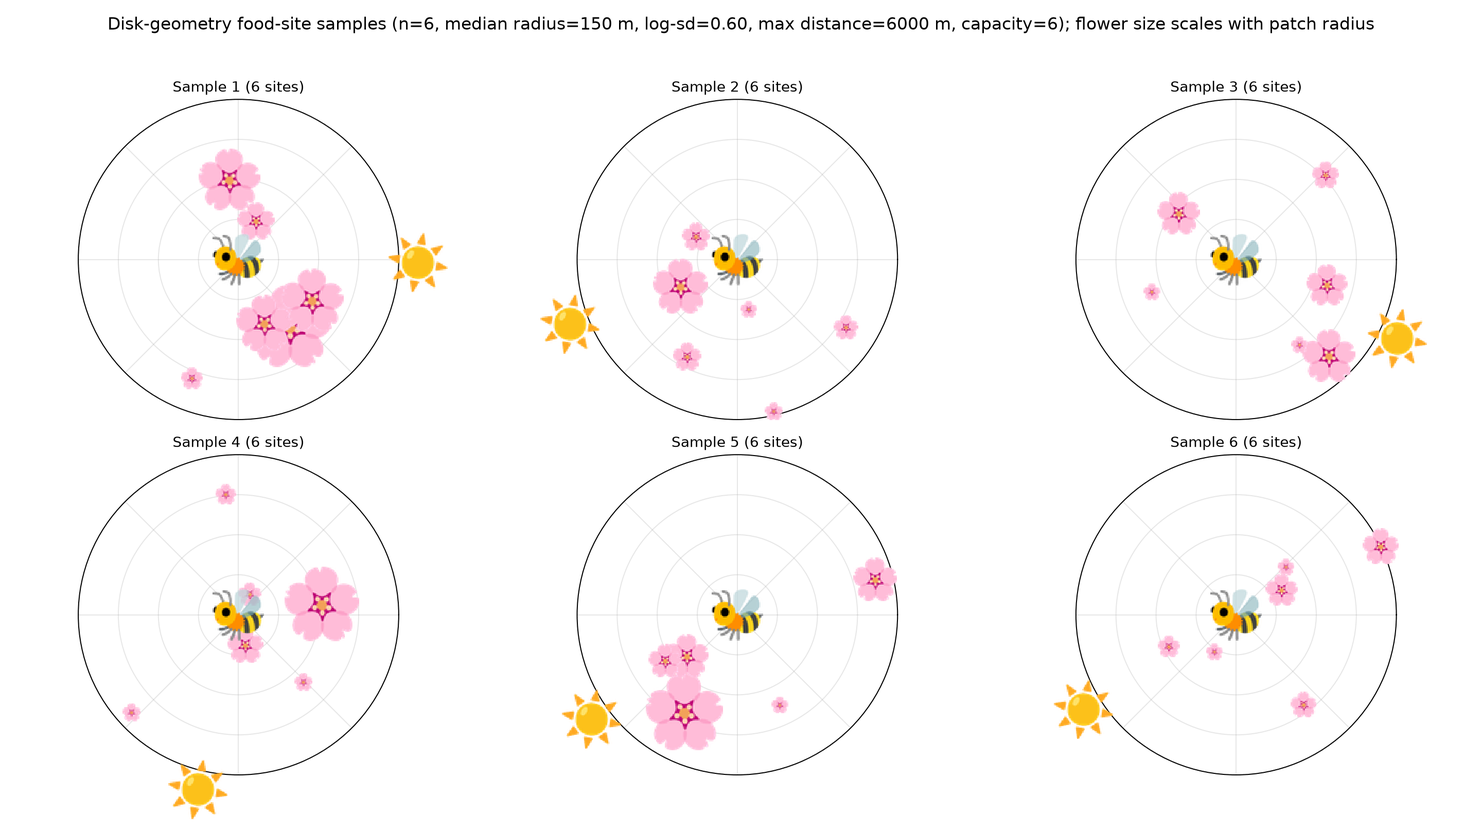
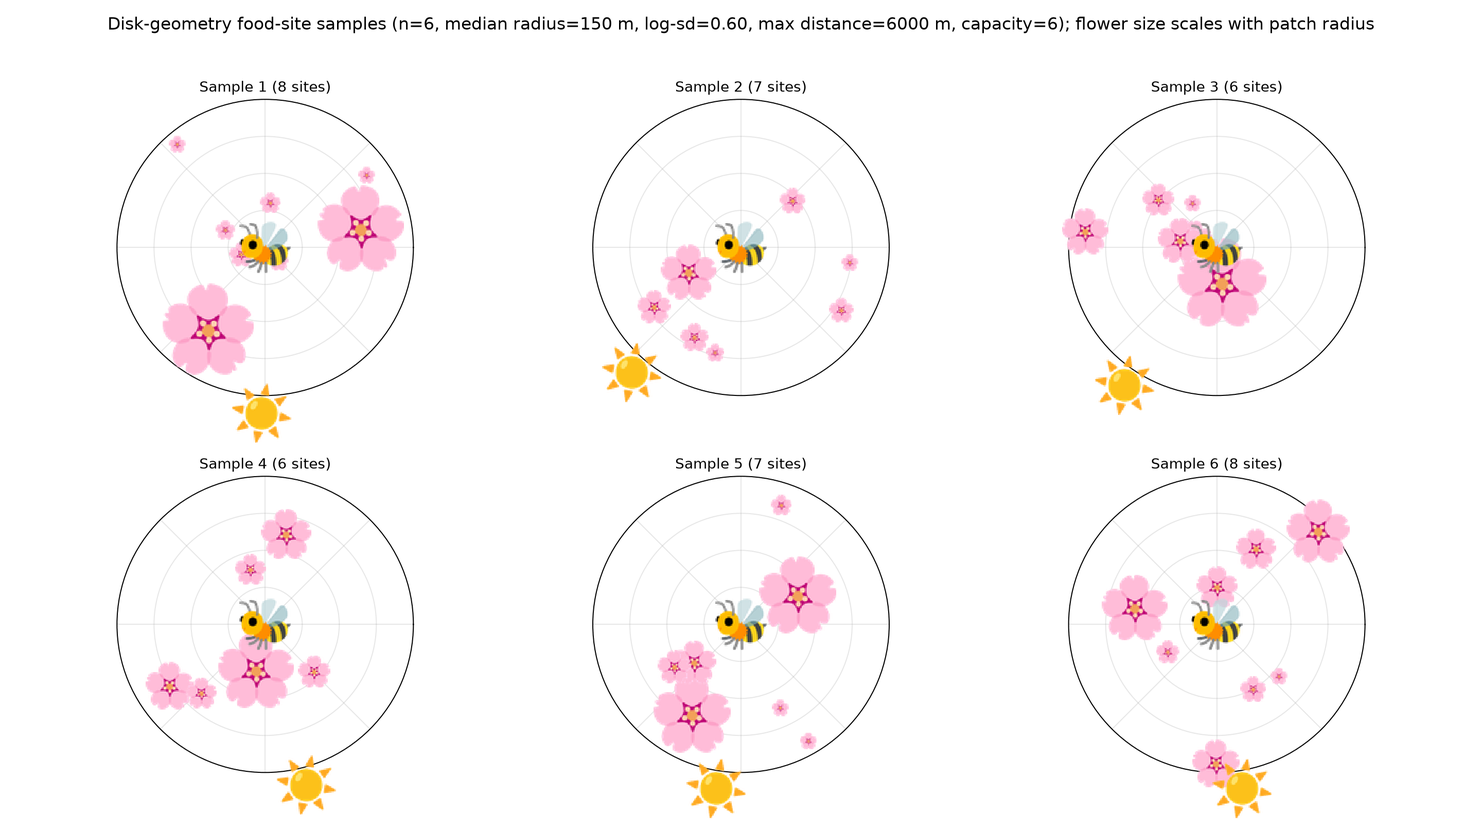
Update paper to disk-geometry model; fix report seed count
Bring the publication paper in line with the current disk-geometry
model (the Method and Experimental setup sections still described the
superseded angular model):

- paper.tex Method: disk food geometry (Poisson patch count, lognormal
  radius independent of distance, disk-intersection capture with
  distance-shrinking angular tolerance, area-scaled capacity, Gamma
  per-foray distance), the new dance-propensity recruitment trait and
  its capacity-conditional decision, foray-distance trait, meters, and
  the disk environment figure with a rewritten caption. The shared comb
  geometry / two-codes / decode / coupling block is unchanged.
- experimental_setup.tex: disk fixed/varied parameter tables, the
  food-distribution grid for the horizontal stage, 1024-trial Optuna
  search over eight disk parameters, disk interaction grid, corrected
  seed blocks; drop the v2/v3 labels and the generation-budget probe.
- Regenerate disk_food_samples.png (was stale: fixed count instead of
  the current Poisson-varying patch counts).
- report.md: fix confirmation seed count (100 -> 40) to match the
  tracked result files; rebuild report.html.
- Add report/.markdownlint.json relaxing MD025/MD033/MD060, which
  conflict with the report's Pandoc frontmatter title, figure HTML, and
  compact tables.

diff --git a/report/report.html b/report/report.html
@@ -290,7 +290,7 @@ style="text-align: left;"><code>results/food_transition_disk_optuna_trials.csv</
 <td style="text-align: left;">Candidate confirmation</td>
 <td
 style="text-align: left;"><code>results/food_transition_disk_confirmation_*</code></td>
-<td style="text-align: left;">100 seeds</td>
+<td style="text-align: left;">40 seeds</td>
 </tr>
 <tr class="even">
 <td style="text-align: left;">Transition (flatten)</td>
@@ -326,7 +326,7 @@ style="text-align: left;"><code>results/food_transition_disk_unproject_optuna_tr
 <td style="text-align: left;">Candidate confirmation</td>
 <td
 style="text-align: left;"><code>results/food_transition_disk_unproject_confirmation_*</code></td>
-<td style="text-align: left;">100 seeds</td>
+<td style="text-align: left;">40 seeds</td>
 </tr>
 <tr class="odd">
 <td style="text-align: left;">Transition (unproject)</td>

diff --git a/report/experimental_setup.tex b/report/experimental_setup.tex
@@ -24,18 +24,24 @@ evolving for $120$ non-overlapping generations; each colony is evaluated over
 $50$ independent foraging episodes of $12$ foraging attempts. Workers express
 colony traits with variation scale $\eta = 0.08$ (\Cref{sec:traits}); dances are
 emitted with maximum concentration $\kappa_{\max} = 14$ and production noise
-$0.18$, and read with interpretation noise $0.12$ (\Cref{sec:signals}). The
-maximum search distance is $D = 8$ and food sites lie at distances in
-$[1, d_{\max}]$. Foraging carries a per-distance travel cost, a dance cost
+$0.18$, and read with interpretation noise $0.12$ (\Cref{sec:signals}). All
+lengths are in meters: the maximum search distance is $D = 6000$ m and food
+patches lie at distances in $[750, d_{\max}]$ m. Food patches are physical disks
+whose radius is drawn from a lognormal of median $150$ m and log-scale spread
+$0.6$; capacity scales with patch area from a base of $6$ loads at the median
+radius, and the number of patches per episode is Poisson (\Cref{sec:environment}).
+Each foray draws its outbound distance from a Gamma of shape $2$ with the colony's
+evolved mean. Foraging carries a per-distance travel cost, a dance cost
 $c_{\mathrm{base}} + c_{\mathrm{cue}}\,b_i$ with $c_{\mathrm{base}} = 0$ and
 $c_{\mathrm{cue}} = 0.02$, and an attention cost $c_{\mathrm{att}} = 0.01$
 (\Cref{sec:foraging}). The sun is drawn from an arc of width $\pi$ centered on
 $\pi/2$, and the comb orientation is treated as axially symmetric (period $\pi$).
 Colonies start with little communicative ability: the initial directional bias is
 drawn from $\mathcal{U}(0,0.15)$, receiver attention from $\mathcal{U}(0,0.25)$,
-the search limit from $\mathcal{U}(0.15D, 0.45D)$, and both transposition traits
-start at $0$, so early foragers signal weakly, rarely attend to one another, and
-use only direct pointing.
+the foray distance from $\mathcal{U}(0.15D, 0.45D)$, the dance propensity from
+$\mathcal{U}(0.8,1.0)$, and both transposition traits start at $0$, so early
+foragers signal weakly, rarely attend to one another, and use only direct
+pointing.
 
 \begin{table}
   \centering
@@ -52,8 +58,11 @@ use only direct pointing.
     $\kappa_{\max}$ & $14$ & maximum dance concentration \\
     dance noise & $0.18$ & production noise (wrapped Gaussian) \\
     interpretation noise & $0.12$ & receiver decoding noise \\
-    $D$ & $8$ & maximum search distance \\
-    $d_{\min}$ & $1$ & minimum food distance \\
+    $D$ & $6000$ m & maximum search distance \\
+    $d_{\min}$ & $750$ m & minimum food distance \\
+    $\rho_r$ & $150$ m & median patch radius (lognormal) \\
+    $\sigma_r$ & $0.6$ & patch-radius log-scale spread \\
+    foray shape & $2$ & Gamma shape of per-foray distance \\
     $c_{\mathrm{base}},\,c_{\mathrm{cue}}$ & $0,\ 0.02$ & dance cost terms \\
     $c_{\mathrm{att}}$ & $0.01$ & attention cost \\
     $v$ & $1$ & food value \\
@@ -61,15 +70,15 @@ use only direct pointing.
     \bottomrule
   \end{tabular}
   \caption{Parameters held fixed across all experiments. Ecological parameters
-    (food-site count, angular width, capacity, maximum distance, travel cost) and
+    (food-site count, patch radius, capacity, maximum distance, travel cost) and
     evolutionary parameters ($B$, $\sigma_m$, $\rho$) are varied as described in
     the text.}
   \label{tab:fixed-params}
 \end{table}
 
 The parameters that are deliberately varied are summarized in
-\Cref{tab:varied-params}: five ecological parameters (food-site count, angular
-width, capacity, maximum food distance, and travel cost) and three evolutionary
+\Cref{tab:varied-params}: five ecological parameters (food-site count, patch
+radius, capacity, maximum food distance, and travel cost) and three evolutionary
 parameters ($B$, $\sigma_m$, $\rho$). The ranges given there are the union across
 sub-experiments; the specific sweeps and grids used in each are described in the
 sections below.
@@ -81,11 +90,11 @@ sections below.
     Symbol / name & Range explored & Meaning \\
     \midrule
     \multicolumn{3}{l}{\emph{Ecological}} \\
-    food-site count       & $1$--$10$       & number of food sites per episode \\
-    angular width         & $0.08$--$0.50$  & angular width of each food site \\
-    capacity              & $4$--$16$       & foragers a site supplies before exhaustion \\
-    $d_{\max}$            & $4.5$--$9.0$    & maximum food-site distance \\
-    $c_{\mathrm{travel}}$ & $0.01$--$0.06$  & travel cost per unit distance \\
+    food-site count       & $1$--$8$          & Poisson mean number of patches per episode \\
+    patch radius          & $60$--$360$ m     & median disk radius (lognormal) \\
+    capacity              & $2$--$12$         & base loads a patch supplies at the median radius \\
+    $d_{\max}$            & $3000$--$7500$ m  & maximum patch distance \\
+    $c_{\mathrm{travel}}$ & $10^{-5}$--$6\times10^{-5}$ & travel cost per meter \\
     \midrule
     \multicolumn{3}{l}{\emph{Evolutionary}} \\
     $B$        & $0.10$--$0.60$ & vertical-comb benefit magnitude \\
@@ -96,12 +105,14 @@ sections below.
   \caption{Parameters varied across experiments, with the range each is explored
     over. Ranges give the union across sub-experiments: the ecological parameters
     and $B,\sigma_m,\rho$ are sampled continuously in the Optuna search over the
-    intervals shown; the horizontal-comb experiments sweep food-site count over
-    $\{1,2,3,4,6,8\}$ and angular width over $\{0.08,0.15,0.20,0.30,0.50\}$; and
-    the evolutionary-interaction grid uses the discrete values
-    $B \in \{0.10, 0.25, 0.44\}$, $\sigma_m \in \{0.045, 0.075, 0.090, 0.135\}$,
-    and $\rho \in \{0.0, 0.3, 0.6, 0.9\}$. Outside the search, capacity is $6$,
-    $d_{\max}$ equals $D = 8$, and the horizontal runs use $\sigma_m = 0.07$.}
+    intervals shown; the horizontal-comb experiment sweeps a grid of food-site
+    count $\{1,2,3,4,6,8,12,16,24\}$ against median patch radius
+    $\{15, 37.5, 75, 150, 300, 600\}$ m; and the evolutionary-interaction grid
+    uses the discrete values $B \in \{0.30, 0.44, 0.56\}$,
+    $\sigma_m \in \{0.05, 0.07, 0.09, 0.11\}$, and
+    $\rho \in \{0.0, 0.3, 0.6, 0.9\}$. Outside the search, capacity is $6$ at the
+    median radius, $d_{\max} = 6000$ m, and the horizontal runs use
+    $\sigma_m = 0.07$.}
   \label{tab:varied-params}
 \end{table}
 
@@ -111,10 +122,9 @@ The direct code can be decoded in two ways on a tilted comb
 (\Cref{sec:vertical}), and we run the whole transition pipeline under each. The
 \emph{flatten} decode applies $M^\top$, introducing a tilt-dependent directional
 bias; the \emph{unproject} decode applies $M^{-1}$, recovering the heading without
-bias. We refer to the flatten pipeline as v2 and the unproject pipeline as v3.
-The two pipelines are identical in every other respect, so comparing them isolates
-the effect of the geometric decode assumption on whether and where the transition
-occurs.
+bias. The two pipelines are identical in every other respect, so comparing them
+isolates the effect of the geometric decode assumption on whether and where the
+transition occurs.
 
 \subsection{Emergence of direct pointing (horizontal comb)}
 \label{sec:setup-horizontal}
@@ -123,11 +133,12 @@ tilt is fixed at $0$ and not allowed to evolve, so the gravity reference has zer
 strength and the transposition traits are inert, leaving only the direct-pointing
 code in play. Colonies evolve for $60$ generations under mutation rate
 $\sigma_m = 0.07$, and we vary only the food distribution across $50$ replicate
-seeds. Conditions comprise three anchors --- a \emph{hard} ecology ($1$ site,
-angular width $0.08$), a \emph{baseline} ($2$ sites, width $0.20$), and an
-\emph{easy} ecology ($8$ sites, width $0.50$) --- together with two orthogonal
-one-dimensional sweeps that share the baseline point: a sweep over food-site
-count at fixed width, and a sweep over angular width at fixed site count.
+seeds ($400$--$449$). The conditions form a full grid crossing the Poisson mean
+patch count $\{1,2,3,4,6,8,12,16,24\}$ against the median patch radius
+$\{15, 37.5, 75, 150, 300, 600\}$ m, so that the ecology ranges from single small
+patches (essentially undiscoverable) to many large ones (easily found by random
+search). All other ecological parameters are held at their fixed values
+(\Cref{tab:fixed-params}).
 
 The primary outcome is the \emph{recruitment advantage} (\Cref{sec:foraging}):
 among attempts where a dance was available, the success rate of workers that
@@ -150,15 +161,18 @@ The transition is governed by the interaction of the ecology with three
 evolutionary parameters: the benefit magnitude $B$, the mutation rate
 $\sigma_m$, and the sender--receiver coupling $\rho$. Because the joint search
 space is large, we locate viable regions by optimization and then probe their
-robustness, in the sequence of sub-experiments below. Each stage draws from a
-distinct block of seeds so that tuning and evaluation never overlap.
+robustness, in the sequence of sub-experiments below. Tuning and evaluation draw
+from disjoint seed blocks: the search uses seeds $100$--$109$ and confirmation
+$110$--$149$, while all held-out evaluation uses seeds $200$--$299$.
 
 \paragraph{Parameter search.}
-We search nine parameters --- food-site count, angular width, capacity, maximum
+We search eight parameters --- food-site count, patch radius, capacity, maximum
 distance, and travel cost, together with $B$, $\sigma_m$, and $\rho$ (food value
 fixed at $v = 1$) --- with the Tree-structured Parzen Estimator sampler of Optuna,
-running $512$ trials with $64$ initial random trials. Each trial evaluates a
-panel of $10$ seeds ($100$--$109$) and is scored by
+running $1024$ trials in total across sixteen parallel workers evaluated against a
+single shared study, each worker seeded independently and drawing $64$ startup
+random trials. Each trial evaluates a panel of $10$ seeds ($100$--$109$) and is
+scored by
 \begin{equation}
   \text{stable seed count} + \overline{\text{progress}} - \text{collapse count},
 \end{equation}
@@ -178,22 +192,16 @@ the two transposition traits.
 
 \paragraph{One-parameter sensitivity.}
 Around the strongest validated candidate we perturb each parameter in turn,
-holding the others at their validated values, over $100$ seeds ($300$--$399$),
-to identify which parameters the transition is most sensitive to.
+holding the others at their validated values, over the same $100$ held-out seeds
+($200$--$299$), to identify which parameters the transition is most sensitive to.
 
 \paragraph{Evolutionary-parameter interaction.}
 To ask whether mutation parameters can compensate for a weaker architectural
 benefit, we hold the validated ecology fixed and run a full-factorial grid over
-the three evolutionary parameters, $B \in \{0.10, 0.25, 0.44\}$,
-$\sigma_m \in \{0.045, 0.075, 0.090, 0.135\}$, and
-$\rho \in \{0.0, 0.3, 0.6, 0.9\}$, evaluating each of the $48$ cells over $100$
-seeds.
-
-\paragraph{Generation budget in the low-benefit regime.}
-Finally, to test whether a low benefit merely slows the transition rather than
-preventing it, we take the weakest regime ($B = 0.10$, low $\rho$, low
-$\sigma_m$) and extend the evolutionary horizon to $240$, $480$, and $960$
-generations over $100$ seeds, at two mutation scales.
+the three evolutionary parameters, re-centred on the disk stable region,
+$B \in \{0.30, 0.44, 0.56\}$, $\sigma_m \in \{0.05, 0.07, 0.09, 0.11\}$, and
+$\rho \in \{0.0, 0.3, 0.6, 0.9\}$, evaluating each of the $48$ cells over the same
+$100$ held-out seeds ($200$--$299$).
 
 \paragraph{Outcome measures.}
 Across the transition experiments we summarize runs by the same thresholds used in

diff --git a/report/paper.tex b/report/paper.tex
@@ -206,26 +206,27 @@ introduce here only the traits needed for the basic horizontal-comb model
 (\Cref{sec:horizontal}); the additional traits and geometry required for tilted
 combs are deferred to \Cref{sec:vertical}.
 
-Three traits govern the behavior of a colony's workers. The \emph{directional
+Four traits govern the behavior of a colony's workers. The \emph{directional
 bias} $b$ controls how precisely a dance points; the \emph{receiver attention}
-$a$ is the propensity to attend to a dance rather than to search at random; and
-the \emph{search limit} $\ell$ is the maximum distance a worker is willing to
-travel. The first two are bounded to $[0,1]$ and the search limit to $[0,D]$,
+$a$ is the propensity to attend to a dance rather than to search at random; the
+\emph{dance propensity} $p$ controls how readily a successful scout recruits
+others to the patch it just found (\Cref{sec:foraging}); and the \emph{foray
+distance} $\ell$ sets the mean outbound distance a worker travels on a foraging
+trip. The first three are bounded to $[0,1]$ and the foray distance to $[0,D]$,
 where $D$ is the maximum search distance, a fixed model parameter (set to
-$D = 8$ in all our experiments) expressed in arbitrary distance units.
+$D = 6000$ in all our experiments) expressed in meters.
 
 Workers express the colony traits with non-heritable individual variation. A
-worker $i$ realizes each trait $x \in \{b, a, \ell\}$ as
+worker $i$ realizes each trait $x \in \{b, a, p\}$ as
 \begin{equation}
   x_i = \mathrm{clip}\bigl(x + \varepsilon_i\bigr), \qquad
   \varepsilon_i \sim \mathcal{N}(0, \eta^2),
 \end{equation}
 where $\eta$ is a fixed worker-variation scale and $\mathrm{clip}$ returns the
-value to its admissible range. For the search limit, whose range is $[0,D]$
-rather than $[0,1]$, the scale is multiplied by $D$, so that $\varepsilon_i \sim
-\mathcal{N}(0, (\eta D)^2)$. A colony
-thus behaves as a noisy ensemble of workers sharing the same underlying
-genotype.
+value to its admissible range. The foray distance $\ell$ carries no separate
+worker jitter: within-colony variation in how far workers travel arises instead
+from the per-foray draw described in \Cref{sec:environment}. A colony thus
+behaves as a noisy ensemble of workers sharing the same underlying genotype.
 
 \subsection{Producing and interpreting signals}
 \label{sec:signals}
@@ -254,14 +255,29 @@ recovered direction is close enough to a food site to lead the follower to it.
 \label{sec:environment}
 A colony is evaluated over a fixed number of independent foraging episodes, and
 its fitness is averaged over them (\Cref{sec:foraging}). Each episode draws a
-fresh environment (\Cref{fig:environment}). A fixed number of food sites are
-placed at azimuths drawn
-uniformly around the colony and at distances drawn uniformly from
-$[d_{\min}, d_{\max}] \subseteq [0, D]$, where $D$ is the maximum search distance
-of \Cref{sec:traits}; every site has the same angular width, value $v$, and
-finite capacity, the last limiting how many foragers it can supply before being
-exhausted. These are held fixed across our experiments, with angular width
-$0.2$, value $v = 1$, and capacity $6$.
+fresh environment (\Cref{fig:environment}), with all lengths measured in meters.
+The number of food sites is drawn from a Poisson distribution with mean $n$, so
+episodes vary in how much food they offer and some contain none. Each site is
+placed at an azimuth drawn uniformly around the colony and at a distance drawn
+uniformly from $[d_{\min}, d_{\max}]$, and is a physical circular patch (a disk)
+whose radius is drawn independently from a lognormal distribution with median
+$\rho_r$ and log-scale spread $\sigma_r$. A forager captures the patch when its
+straight outbound path crosses the disk, so a patch's effective angular tolerance
+is approximately $\arcsin(\mathrm{radius}/\mathrm{distance})$ and shrinks with
+distance: a fixed patch subtends a smaller angle when farther from the nest. Each
+patch has value $v$ per visit and a finite capacity limiting how many foragers it
+can supply before being exhausted; capacity scales with the patch's area, growing
+with the square of its radius relative to a reference radius $\rho_r$, so that
+larger patches hold proportionally more forage while the per-visit value stays
+fixed. In our experiments $v = 1$, the median radius is $\rho_r = 150$ with
+log-scale spread $\sigma_r = 0.6$, a patch at the median radius has capacity $6$,
+and sites lie between $d_{\min} = 750$ and $d_{\max} = 6000$.
+
+The foray distance trait $\ell$ (\Cref{sec:traits}) sets how far a worker travels,
+but each individual foray draws its own outbound length from a Gamma distribution
+with mean $\ell$ and a fixed shape, capped at the maximum search distance $D$. The
+per-foray draw is the source of within-colony variation in travel distance and
+gives forays a realistic spread of short and long trips around the colony mean.
 
 Each episode also fixes the position of the sun, which serves as the external
 reference for the gravity-based code introduced in \Cref{sec:vertical}. The
@@ -275,13 +291,16 @@ encoding and decoding with opposite sign and cancels, and communication is
 therefore unaffected by where the sun happens to fall. 
 \begin{figure}
   \centering
-    \includegraphics[width=0.7\textwidth]{figures/trial_257_food_samples.png}
-    \caption{Six samples of the foraging environment for a particular trial.
-      Each panel shows the colony (bee) at the centre, the food sites (flowers)
-      at their drawn azimuths and distances, and the sun, which marks the
-      external reference for the gravity-based code. Here each environment has
-      $8$ food sites of angular width $0.27$ and capacity $9$, drawn out to a
-      maximum distance of $6.5$; radial rings mark distance from the colony.}
+    \includegraphics[width=0.7\textwidth]{figures/disk_food_samples.png}
+    \caption{Six samples of the disk-geometry foraging environment. Each panel
+      shows the colony (bee) at the centre, the food patches (flowers) at their
+      drawn azimuths and distances, and the sun, which marks the external
+      reference for the gravity-based code. Each patch is a physical disk, and
+      the flower size scales with the patch's sampled radius; radial rings mark
+      distance from the colony in meters. Here the number of patches per episode
+      is Poisson with mean $6$, so panels differ in how many patches they
+      contain, with median radius $150$ m (lognormal, log-sd $0.6$) and capacity
+      $6$ at that radius, drawn out to a maximum distance of $6000$ m.}
     \label{fig:environment}
 \end{figure}
 
@@ -292,27 +311,33 @@ foraging attempts. On each attempt a worker is drawn at random; if at least one
 dance has already been performed in the current episode,
 the worker follows a randomly chosen dance with probability equal to its
 attention $a_i$, decoding it into a search direction, and otherwise searches in a
-uniformly random direction. The worker locates the nearest food site whose
-direction falls within its angular width of the search direction and whose
-distance is within the worker's search limit $\ell_i$, provided such a site with
-remaining capacity exists.
+uniformly random direction. The worker then sets out along that direction on a
+foray whose length is drawn as in \Cref{sec:environment} and enters the first
+food patch its straight path crosses, among patches that still have remaining
+capacity and lie within the foray length; if no patch is reached the forage fails.
 
-Payoff accrues per episode. A successful forage yields the food site's value $v$, minus
-a travel cost proportional to the site's distance, and prompts the worker to
-perform a dance advertising the site to later foragers, at a cost
-$c_{\mathrm{base}} + c_{\mathrm{cue}}\,b_i$ that grows with the precision of the
-dance. A failed forage costs travel proportional to the full search limit
-$\ell_i$, and each act of attending to a dance incurs an attention cost.
+Payoff accrues per episode. A successful forage yields the patch's value $v$, minus
+a travel cost proportional to the patch's distance, and may prompt the worker to
+perform a dance advertising the patch to later foragers. Recruitment is itself an
+evolved decision: a successful scout dances with probability $1 - (1 - p_i)^{c}$,
+where $p_i$ is its dance propensity and $c$ is the patch's remaining capacity
+after the visit, so an exhausted patch never seeds a dance and a scarcely
+provisioned one rarely does. A dance, when performed, costs
+$c_{\mathrm{base}} + c_{\mathrm{cue}}\,b_i$, growing with the precision of the
+signal. A failed forage costs travel proportional to the foray length it
+travelled, and each act of attending to a dance incurs an attention cost.
 Collecting these terms, an episode with successful attempts $S$ (each at distance
-$r_k$, performed by a worker with bias $b_k$), failed attempts $F$ (each with
-search limit $\ell_j$), and $n_a$ dance-following attempts yields raw payoff
+$r_k$), the subset $S_d \subseteq S$ of successes that produced a dance (each by a
+worker with bias $b_k$), failed attempts $F$ (each with foray length $\ell_j$),
+and $n_a$ dance-following attempts yields raw payoff
 \begin{equation}
   \pi_{\mathrm{raw}} = \sum_{k \in S}\bigl(v - c_{\mathrm{travel}}\,r_k\bigr)
-    - \sum_{k \in S}\bigl(c_{\mathrm{base}} + c_{\mathrm{cue}}\,b_k\bigr)
+    - \sum_{k \in S_d}\bigl(c_{\mathrm{base}} + c_{\mathrm{cue}}\,b_k\bigr)
     - \sum_{j \in F} c_{\mathrm{travel}}\,\ell_j
     - c_{\mathrm{att}}\,n_a,
 \end{equation}
-where the dance-cost sum runs over $S$ because one dance is produced per success.
+where the dance-cost sum runs over $S_d$ because a success produces a dance only
+when the recruitment decision fires.
 The scaled episode payoff is $\pi = \bigl(1 + B\,m(\gamma)\bigr)\,\pi_{\mathrm{raw}}$,
 with the vertical-comb modifier $m(\gamma) = \gamma$ by default
 (\Cref{sec:vertical}). A colony's fitness is its mean episode payoff (floored at a
@@ -331,8 +356,8 @@ evaluated, and the next generation is produced by repeated
 selection of parent colonies with a probability proportional to fitness. 
 A selected colony's traits are copied subject to
 mutation. Each trait is perturbed by an independent Gaussian step of standard
-deviation $\sigma_m$ (scaled by $D$ for the search limit) and then clipped to its
-range. The workers of each offspring colony are then regenerated from its traits
+deviation $\sigma_m$ (scaled by $D$ for the foray distance) and then clipped to
+its range. The workers of each offspring colony are then regenerated from its traits
 as in \Cref{sec:traits}. The mutation rate $\sigma_m$ thus sets the pace of
 evolutionary change.
 

diff --git a/report/report.md b/report/report.md
@@ -108,12 +108,12 @@ and writes tracked CSVs under `results/`.
 |:---------|:------|:-------------|:-----------|
 | Flat comb | Food-distribution grid | `results/food_distribution_disk_*` | seeds 400-449 |
 | Transition (flatten) | Optuna search | `results/food_transition_disk_optuna_trials.csv`, `results/food_transition_disk_optuna_seed_metrics.csv` | 10 seeds/trial |
-| Transition (flatten) | Candidate confirmation | `results/food_transition_disk_confirmation_*` | 100 seeds |
+| Transition (flatten) | Candidate confirmation | `results/food_transition_disk_confirmation_*` | 40 seeds |
 | Transition (flatten) | Held-out validation | `results/food_transition_disk_validation_*` | seeds 200-299 |
 | Transition (flatten) | One-parameter sensitivity | `results/food_transition_disk_sensitivity_*` | 100 seeds |
 | Transition (flatten) | Evolutionary interaction grid | `results/food_transition_disk_interaction.csv` | 100 seeds/cell |
 | Transition (unproject) | Optuna search | `results/food_transition_disk_unproject_optuna_trials.csv`, `results/food_transition_disk_unproject_optuna_seed_metrics.csv` | 10 seeds/trial |
-| Transition (unproject) | Candidate confirmation | `results/food_transition_disk_unproject_confirmation_*` | 100 seeds |
+| Transition (unproject) | Candidate confirmation | `results/food_transition_disk_unproject_confirmation_*` | 40 seeds |
 | Transition (unproject) | Held-out validation | `results/food_transition_disk_unproject_validation_*` | seeds 200-299 |
 | Transition (unproject) | One-parameter sensitivity | `results/food_transition_disk_unproject_sensitivity_*` | 100 seeds |
 | Transition (unproject) | Evolutionary interaction grid | `results/food_transition_disk_unproject_interaction.csv` | 100 seeds/cell |
